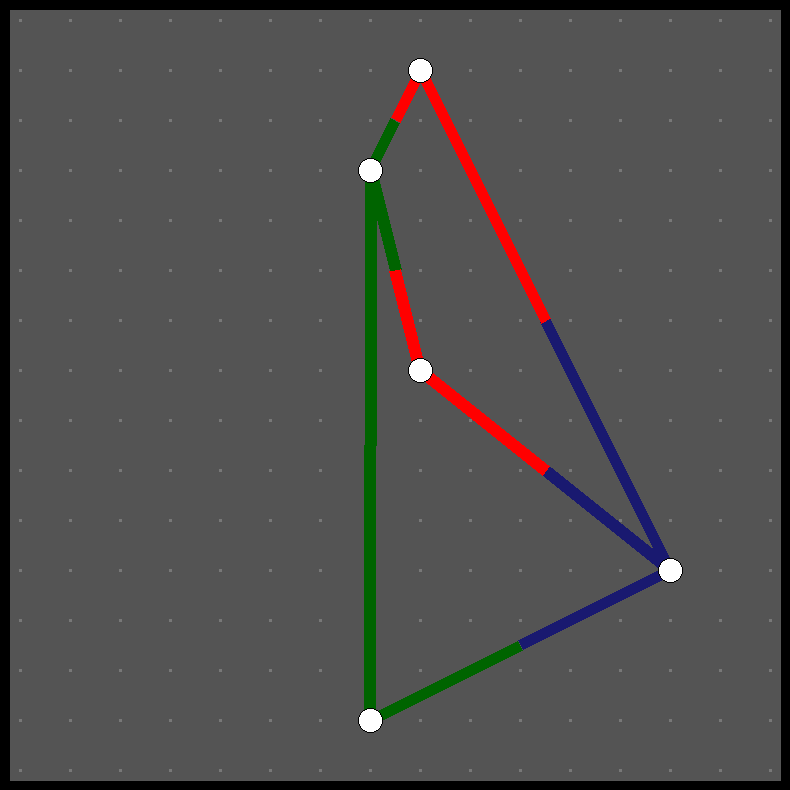
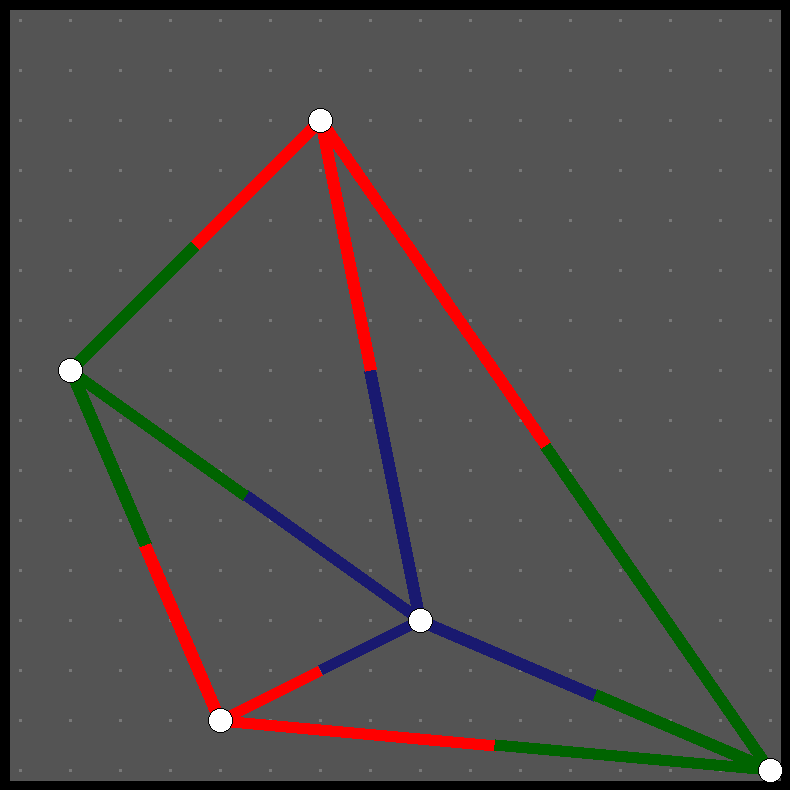
Finished Map Coloring Problem

diff --git a/AI_Lab2_CSP/map_coloring/problem.py b/AI_Lab2_CSP/map_coloring/problem.py
@@ -1,26 +1,62 @@
 from csp import CSP
-from typing import List, Optional
+from typing import List, Optional, Dict, Tuple
 from helper import tools
 from helper.map_generator import BoardDrawer
+from helper.exceptions import ProblemNotInitializedException, SolutionNotResolvedException
 from random import randint
 import math
+import copy
+
+from map_coloring.constraints import MapColoringConstraint
 
 
 class MapColoringProblem:
-    def __init__(self):
+    def __init__(self, points_number, map_width, map_height):
         self.csp: Optional[CSP] = None
         self.points: List[List[int]] = []
         self.connections: List[List[int]] = []
-        self.width = -1
-        self.height = -1
-        self.points_number = -1
-
-    def init_problem(self, points_number, map_width, map_height):
         self.width = map_width
         self.height = map_height
         self.points_number = points_number
         for i in range(0, points_number):
             self.connections.append([])
+        self.colors = []
+
+    def init_problem(self, colors_number):
+        if self.points == []:
+            raise ProblemNotInitializedException()
+        
+        variables: List[Tuple[int, int]] = []
+        for p in self.points:
+            variables.append((p[0], p[1]))
+        domains: Dict[Tuple[int, int], List[int]] = {}
+        domain = []
+        for i in range(1, colors_number + 1):
+            domain.append(i)
+        for variable in variables:
+            domains[variable] = domain
+        
+        self.csp = CSP(variables, domains)
+        self.add_constraints()
+
+    
+    def add_constraints(self):
+        for p in self.points:
+            for p2_idx in self.connections[self.points.index(p)]:
+                p2 = self.points[p2_idx]
+                self.csp.add_constraint(MapColoringConstraint((p[0], p[1]), (p2[0], p2[1])))
+
+    def solve(self):
+        if self.csp == None:
+            raise ProblemNotInitializedException()
+        else:
+            solution = self.csp.backtracking_search()
+            if solution is None:
+                print("No solution found...")
+            else:
+                print(solution)
+                self.colors = solution.values()
+                
 
     def generate_map(self):
         for i in range(self.points_number):
@@ -30,17 +66,24 @@ class MapColoringProblem:
                 if [x, y] not in self.points:
                     self.points.append([x, y])
                     break
-        
         self.generate_connections()
 
+
     def print_map(self):
+        if self.points == []:
+            raise ProblemNotInitializedException()
+
+        if self.colors == []:
+            raise SolutionNotResolvedException()
+
         json = {
             "board": self.width,
-            "regions": self.points,
-            "colors": [1, 2, 3, 2, 3],
+            "regions": copy.deepcopy(self.points),
+            "colors": self.colors,
             "connections": self.connections
         }
         print(json)
+
         drawer = BoardDrawer(json)
         im = drawer.get_image()
         output_path = "map_images/generated_map.png"
@@ -55,7 +98,8 @@ class MapColoringProblem:
                     self.connections[self.points.index(p)].append(self.points.index(neighbour))
                     self.connections[self.points.index(neighbour)].append(self.points.index(p))
                 else:
-                    done_points.append(p)
+                    if p not in done_points:
+                        done_points.append(p)
 
 
     def find_closest(self, point) -> List[int]:
@@ -76,8 +120,11 @@ class MapColoringProblem:
         for p1 in self.points:
             for p2_idx in self.connections[self.points.index(p1)]:
                 p2 = self.points[p2_idx]
-                if tools.intersects(point1, point2, p1, p2):
+                int_pt = tools.find_intersection(point1, point2, p1, p2)
+                if int_pt != None and int_pt != point1 and int_pt != point2:
                     return True
+                # if tools.intersects(point1, point2, p1, p2):
+                #     return True
         return False
 
     def calculate_distance(self, point, other):

diff --git a/AI_Lab2_CSP/helper/tools.py b/AI_Lab2_CSP/helper/tools.py
@@ -1,8 +1,46 @@
 
-
 # Return true if line segments AB and CD intersect
 def intersects(A, B, C, D):
     return ccw(A, C, D) != ccw(B, C, D) and ccw(A, B, C) != ccw(A, B, D)
 
+
 def ccw(A, B, C):
     return (C[1] - A[1]) * (B[0] - A[0]) > (B[1] - A[1]) * (C[0] - A[0])
+
+
+def find_intersection(p0, p1, p2, p3):
+
+    s10_x = p1[0] - p0[0]
+    s10_y = p1[1] - p0[1]
+    s32_x = p3[0] - p2[0]
+    s32_y = p3[1] - p2[1]
+
+    denom = s10_x * s32_y - s32_x * s10_y
+
+    if denom == 0:
+        return None # collinear
+
+    denom_is_positive = denom > 0
+
+    s02_x = p0[0] - p2[0]
+    s02_y = p0[1] - p2[1]
+
+    s_numer = s10_x * s02_y - s10_y * s02_x
+
+    if (s_numer < 0) == denom_is_positive: 
+        return None # no collision
+
+    t_numer = s32_x * s02_y - s32_y * s02_x
+
+    if (t_numer < 0) == denom_is_positive:
+        return None # no collision
+
+    if (s_numer > denom) == denom_is_positive or (t_numer > denom) == denom_is_positive:
+        return None # no collision
+
+
+    # collision detected
+    t = t_numer / denom
+    intersection_point = [ p0[0] + (t * s10_x), p0[1] + (t * s10_y) ]
+
+    return intersection_point

diff --git a/AI_Lab2_CSP/einstein_riddle/problem.py b/AI_Lab2_CSP/einstein_riddle/problem.py
@@ -1,6 +1,7 @@
 from typing import Dict, List, Optional
 from csp import CSP
 from einstein_riddle.constraints import *
+from helper.exceptions import ProblemNotInitializedException
 
 
 class EinsteinRiddleProblem:
@@ -87,7 +88,7 @@ class EinsteinRiddleProblem:
 
     def solve(self):
         if self.csp == None:
-            print("PROBLEM NOT INILIALIZED, ABORTING")  # Proper error here
+            raise ProblemNotInitializedException()
         else:
             solution: Optional[Dict[int, str]] = self.csp.backtracking_search()
             if solution is None:

diff --git a/AI_Lab2_CSP/map_coloring/constraints.py b/AI_Lab2_CSP/map_coloring/constraints.py
@@ -1,0 +1,13 @@
+from csp import Constraint
+from typing import List, Dict, Tuple
+
+class MapColoringConstraint(Constraint):
+    def __init__(self, point1, point2):
+        super().__init__([point1, point2])
+        self.p1 = point1
+        self.p2 = point2
+
+    def satisfied(self, assignment: Dict[Tuple[int, int], int]) -> bool:
+        if self.p1 not in assignment or self.p2 not in assignment:
+            return True
+        return assignment[self.p1] != assignment[self.p2]

diff --git a/AI_Lab2_CSP/main.py b/AI_Lab2_CSP/main.py
@@ -8,10 +8,12 @@ def run_einstein_riddle():
     problem.solve()
 
 def run_map_coloring():
-    problem = MapColoringProblem()
-    problem.init_problem(5, 16, 16)
+    problem = MapColoringProblem(5, 16, 16)
     problem.generate_map()
+    problem.init_problem(3)
+    problem.solve()
     problem.print_map()
 
 if __name__ == "__main__":
     run_map_coloring()
+    #run_einstein_riddle()

diff --git a/AI_Lab2_CSP/helper/exceptions.py b/AI_Lab2_CSP/helper/exceptions.py
@@ -1,0 +1,8 @@
+class ProblemNotInitializedException(Exception):
+    def __init__(self):
+        super().__init__("You must first initialize the problem!")
+
+
+class SolutionNotResolvedException(Exception):
+    def __init__(self):
+        super().__init__("Try to first initialize and SOLVE the problem")
